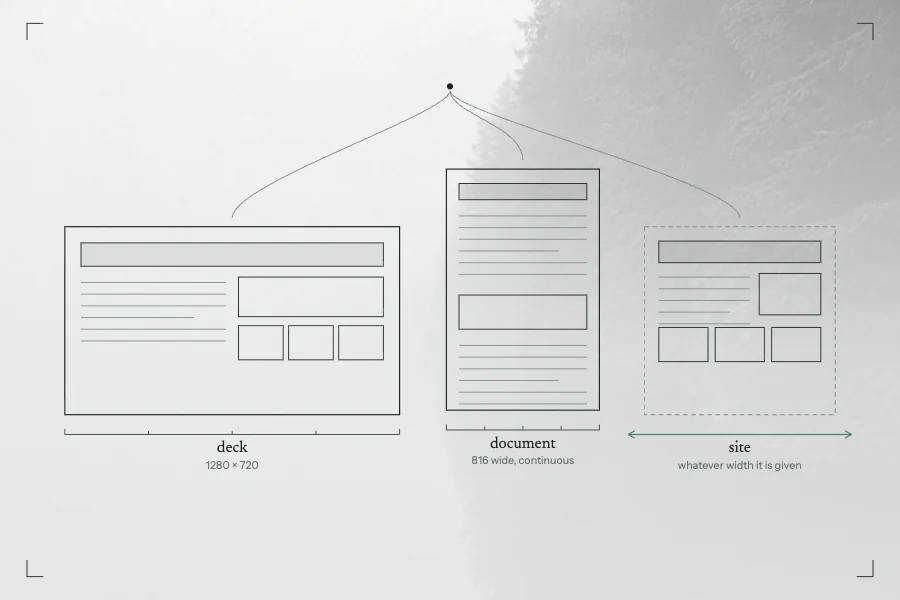
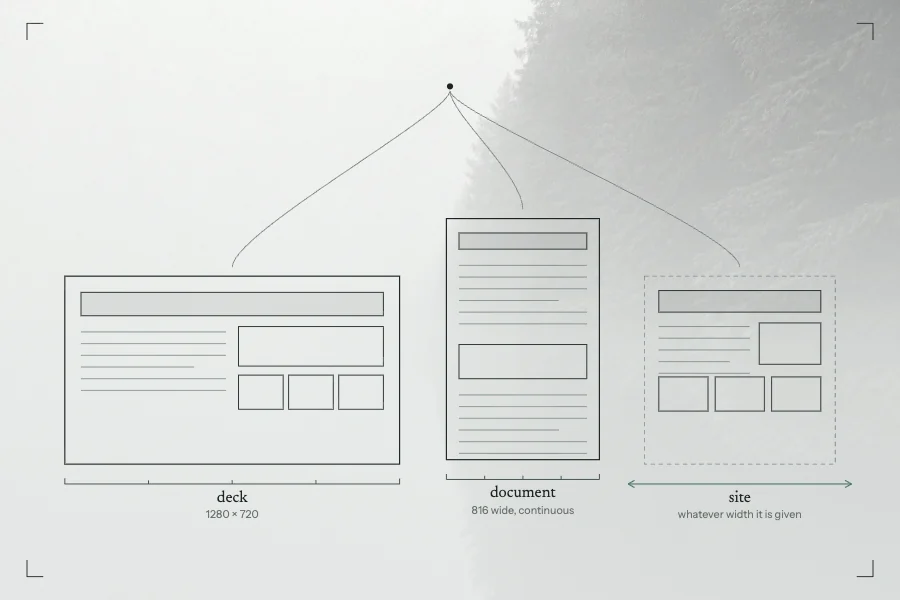
Seat three technical covers inside their card crop

diff --git a/scripts/covers/layout-engine.html b/scripts/covers/layout-engine.html
@@ -104,7 +104,7 @@
     // the deck: a title band, a column of text and a row of cells
     const D = wide
         ? { x: 96, y: 108, w: 300, h: 169 }
-        : { x: 72, y: 252, w: 372, h: 209 };
+        : { x: 72, y: 307, w: 372, h: 209 };
     rect(D.x, D.y, D.w, D.h, "ink");
     rect(D.x + 18, D.y + 18, D.w - 36, 26, "fillbox");
     rect(D.x + 18, D.y + 18, D.w - 36, 26, "ink thin");
@@ -120,7 +120,7 @@
     // the document: the same blocks in one column, continuous rather than paged
     const C = wide
         ? { x: 452, y: 60, w: 148, h: 262 }
-        : { x: 496, y: 188, w: 170, h: 268 };
+        : { x: 496, y: 243, w: 170, h: 268 };
     rect(C.x, C.y, C.w, C.h, "ink");
     rect(C.x + 14, C.y + 16, C.w - 28, 18, "fillbox");
     rect(C.x + 14, C.y + 16, C.w - 28, 18, "ink thin");
@@ -132,7 +132,7 @@
     // the site: the same blocks again, in a frame whose width is an argument
     const W = wide
         ? { x: 656, y: 108, w: 268, h: 169 }
-        : { x: 716, y: 252, w: 212, h: 209 };
+        : { x: 716, y: 307, w: 212, h: 209 };
     rect(W.x, W.y, W.w, W.h, "mist dash");
     rect(W.x + 16, W.y + 16, W.w - 32, 24, "fillbox");
     rect(W.x + 16, W.y + 16, W.w - 32, 24, "ink thin");

diff --git a/scripts/covers/one-screen-writes-offline.html b/scripts/covers/one-screen-writes-offline.html
@@ -139,7 +139,7 @@
             // the device, holding the day it already has
             const D = wide
                 ? { x: 60, y: 96, w: 300, h: 190 }
-                : { x: 56, y: 186, w: 362, h: 268 };
+                : { x: 56, y: 156, w: 362, h: 268 };
             rect(D.x, D.y, D.w, D.h, "fillbox");
             rect(D.x, D.y, D.w, D.h, "ink");
             el("text", { x: D.x, y: D.y - 24, class: "name" }, "the device");
@@ -157,7 +157,7 @@
             // the server, and what it alone can settle
             const V = wide
                 ? { x: 620, y: 96, w: 320, h: 190 }
-                : { x: 566, y: 186, w: 378, h: 268 };
+                : { x: 566, y: 156, w: 378, h: 268 };
             rect(V.x, V.y, V.w, V.h, "ink");
             el("text", { x: V.x, y: V.y - 24, class: "name" }, "one command");
             el("text", { x: V.x, y: V.y - 8 }, "locked, checked, written once");

diff --git a/scripts/covers/one-integration-two-callers.html b/scripts/covers/one-integration-two-callers.html
@@ -148,8 +148,8 @@
 
             // the two callers
             const cw = wide ? 250 : 300;
-            const A = wide ? { x: 70, y: 74 } : { x: 60, y: 120 };
-            const B = wide ? { x: 680, y: 74 } : { x: 640, y: 120 };
+            const A = wide ? { x: 70, y: 74 } : { x: 60, y: 145 };
+            const B = wide ? { x: 680, y: 74 } : { x: 640, y: 145 };
             const card = (p, title, note, dashed, rows) => {
                 const h = 96;
                 rect(p.x, p.y, cw, h, "fillbox");
@@ -184,7 +184,7 @@
             // the one function they both reach
             const op = {
                 x: wide ? 350 : 300,
-                y: wide ? 262 : 420,
+                y: wide ? 262 : 505,
                 w: 300,
                 h: 56,
             };
